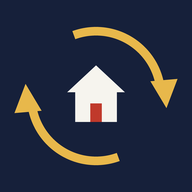
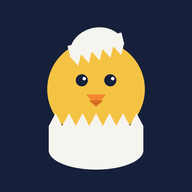
앱 아이콘을 병아리로 교체 (집+화살표 사이클 → 알에서 깨는 부린이)
- 이모지 폰트 글리프를 굽지 않고 직접 그림 (Segoe UI Emoji 아트워크
  재배포 회피 + 32px 파비콘에서도 눈·부리가 읽힘)
- app_icon.png(파비콘), icons/icon-{192,512}, icons/maskable-{192,512} 교체
- maskable 두 장은 내용을 72%로 넣어 원형 크롭 안전영역 통과 검증
- tools/make_app_icon.py 로 생성기 보관
- sw.js VERSION v1→v2: 정적 자산이 cache-first라 기존 방문자도 새 아이콘을 받게

diff --git a/sw.js b/sw.js
@@ -3,7 +3,7 @@
    - 정적 자산: cache-first (+백그라운드 갱신)
    - 외부 도메인(GA·카카오 SDK)은 건드리지 않음
 */
-const VERSION = 'v1';
+const VERSION = 'v2'; // 앱 아이콘 교체(집+화살표 → 병아리). 옛 캐시를 버려야 새 아이콘이 뜬다.
 const CACHE = `aptweather-${VERSION}`;
 
 const PRECACHE = [

diff --git a/tools/make_app_icon.py b/tools/make_app_icon.py
@@ -1,0 +1,105 @@
+# -*- coding: utf-8 -*-
+"""aptweather 앱 아이콘 — 알에서 깨는 부린이 병아리.
+
+이모지 폰트 글리프를 굽지 않고 직접 그린다 (재배포 라이선스 회피 + 작은 크기에서 선명).
+4배 크기로 그린 뒤 축소해 안티에일리어싱을 얻는다.
+
+사용:  python tools/make_app_icon.py
+출력:  app_icon.png, icons/icon-{192,512}.png, icons/maskable-{192,512}.png
+"""
+import os
+from PIL import Image, ImageDraw
+
+S = 4                      # 슈퍼샘플 배율
+BASE = 512
+NAVY = (22, 32, 58)
+BODY = (245, 195, 68)
+BODY_DK = (226, 170, 44)
+BEAK = (240, 135, 46)
+SHELL = (246, 244, 238)
+SHELL_DK = (219, 213, 199)
+EYE = (22, 32, 58)
+
+
+def s(v):
+    """좌표를 슈퍼샘플 배율로 (튜플은 튜플로 유지 — PIL이 좌표 타입을 가린다)"""
+    if isinstance(v, tuple):
+        return tuple(s(x) for x in v)
+    if isinstance(v, list):
+        return [s(x) for x in v]
+    return v * S
+
+
+def zigzag(x0, x1, y, teeth, height, down=False):
+    """x0..x1 구간의 톱니 모서리 점들 (깨진 껍질)"""
+    pts = []
+    step = (x1 - x0) / teeth
+    for i in range(teeth):
+        a = x0 + i * step
+        pts.append((a, y))
+        pts.append((a + step / 2, y + height if down else y - height))
+    pts.append((x1, y))
+    return pts
+
+
+def draw_chick(size=BASE, inset=1.0):
+    """정사각 아이콘 한 장. inset<1 이면 내용을 중앙으로 축소(maskable 안전영역)."""
+    W = size * S
+    img = Image.new('RGB', (W, W), NAVY)
+
+    # 내용은 512 좌표계로 그린 뒤 통째로 축소·중앙 정렬
+    layer = Image.new('RGBA', (BASE * S, BASE * S), (0, 0, 0, 0))
+    d = ImageDraw.Draw(layer)
+
+    # --- 몸통 (껍질보다 먼저: 아래쪽은 컵에 가려진다) ---
+    d.ellipse(s([126, 108, 386, 368]), fill=BODY)
+
+    # --- 눈 ---
+    for cx in (218, 294):
+        d.ellipse(s([cx - 16, 198, cx + 16, 230]), fill=EYE)
+        d.ellipse(s([cx + 2, 205, cx + 11, 214]), fill=(255, 255, 255))
+
+    # --- 부리 ---
+    d.polygon(s([(230, 252), (282, 252), (256, 284)]), fill=BEAK)
+    d.polygon(s([(237, 268), (275, 268), (256, 284)]), fill=(214, 108, 32))
+
+    # --- 아래 껍질 컵 (직사각 + 둥근 바닥, 위 모서리는 톱니) ---
+    d.rectangle(s([130, 336, 382, 400]), fill=SHELL)
+    d.ellipse(s([130, 350, 382, 452]), fill=SHELL)
+    d.polygon(s(zigzag(130, 382, 336, 7, 34) + [(382, 362), (130, 362)]), fill=SHELL)
+
+    # --- 머리 위 껍질 조각 (기울여 얹는다) ---
+    cw, chh = 156, 96
+    cap = Image.new('RGBA', s((cw, chh)), (0, 0, 0, 0))
+    cd = ImageDraw.Draw(cap)
+    cd.chord(s([4, 0, cw - 4, 124]), 180, 360, fill=SHELL)
+    cd.polygon(s(zigzag(4, cw - 4, 60, 5, 28, down=True) + [(cw - 4, 30), (4, 30)]), fill=SHELL)
+    cap = cap.rotate(14, resample=Image.BICUBIC, expand=True)
+    layer.alpha_composite(cap, (s(256) - cap.width // 2, s(122) - cap.height // 2))
+
+    if inset != 1.0:
+        n = int(BASE * S * inset)
+        layer = layer.resize((n, n), Image.LANCZOS)
+        off = (BASE * S - n) // 2
+        pad = Image.new('RGBA', (BASE * S, BASE * S), (0, 0, 0, 0))
+        pad.alpha_composite(layer, (off, off))
+        layer = pad
+
+    if W != BASE * S:
+        layer = layer.resize((W, W), Image.LANCZOS)
+
+    img.paste(layer, (0, 0), layer)
+    return img.resize((size, size), Image.LANCZOS)
+
+
+if __name__ == '__main__':
+    root = os.path.dirname(os.path.dirname(os.path.abspath(__file__)))
+    os.makedirs(os.path.join(root, 'icons'), exist_ok=True)
+
+    draw_chick(512).save(os.path.join(root, 'app_icon.png'), optimize=True)
+    draw_chick(512).save(os.path.join(root, 'icons', 'icon-512.png'), optimize=True)
+    draw_chick(192).save(os.path.join(root, 'icons', 'icon-192.png'), optimize=True)
+    # maskable: 원형 크롭에 잘리지 않도록 내용을 72%로
+    draw_chick(512, inset=0.72).save(os.path.join(root, 'icons', 'maskable-512.png'), optimize=True)
+    draw_chick(192, inset=0.72).save(os.path.join(root, 'icons', 'maskable-192.png'), optimize=True)
+    print('icons written')
